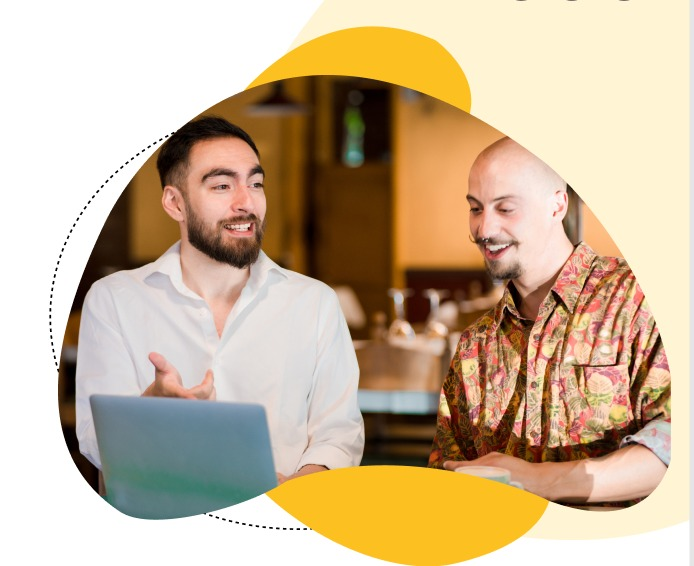
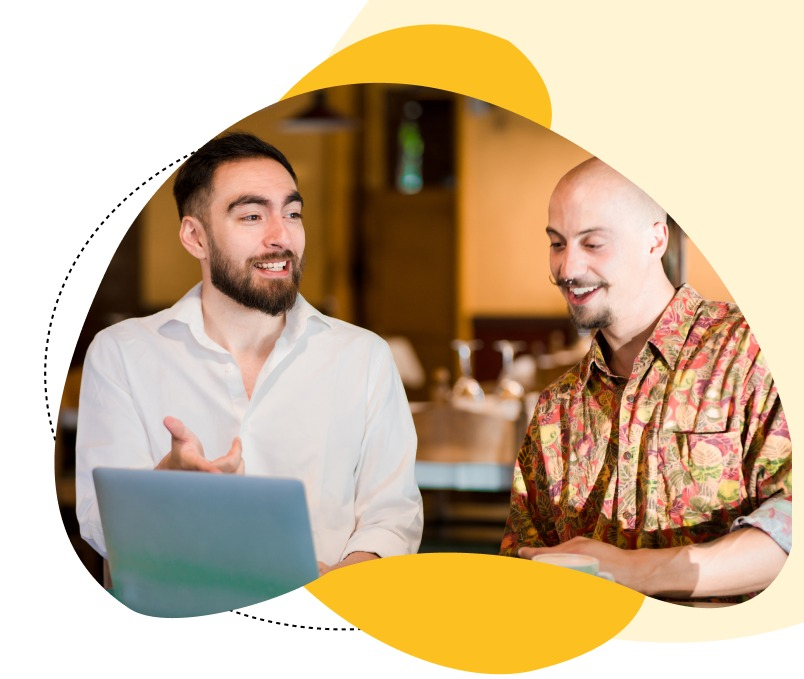
final Nosotros

Changed region(s): [[0.0303, 0.0, 1.0, 1.0], [0.6657, 0.9611, 0.7262, 0.9912]]

diff --git a/Parcial 1/index.html b/Parcial 1/index.html
@@ -38,8 +38,8 @@
                 <p>Lorem ipsum dolor sit amet consectetur adipisicing elit. Accusantium alias tempore modi perferendis,
                     hic debitis obcaecati harum aut, molestiae sint rerum eligendi nam voluptas quo saepe eum quis?
                     Quae, consectetur!</p>
-                <a class="button-inicio" href="">Get Started</a>
-                <img src="img/Imagen inicio.jpeg" alt="imagen-inicio">
+                <button>Get Started</button>
+                <img src="img/imagen inicio.jpeg" alt="imagen-inicio">
             </div>
         </section>
 
@@ -64,9 +64,6 @@
                         atque. Autem qui voluptatem rem repellat!
                     </p>
                 </div>
-                <div class="card-footer">
-                    <button>Leer Mas</button>
-                </div>
             </div>
 
             <div class="cards">
@@ -82,9 +79,6 @@
                         iusto! Sunt ex eos, fuga voluptatum voluptas deleniti facere dicta. Ducimus, voluptate
                         atque. Autem qui voluptatem rem repellat!
                     </p>
-                </div>
-                <div class="card-footer">
-                    <button>Leer Mas</button>
                 </div>
             </div>
 
@@ -102,11 +96,21 @@
                         atque. Autem qui voluptatem rem repellat!
                     </p>
                 </div>
-                <div class="card-footer">
-                    <button>Leer Mas</button>
-                </div>
             </div>
         </div>
+
+        <div class="container-nosotros">
+            <img src="img/imagen nosotros.jpeg" alt="">
+            <h2>
+                Acerca de <br> Nosotros
+            </h2>
+            <p>
+                Lorem ipsum dolor sit amet consectetur adipisicing elit. Aperiam, temporibus. Dolorum at quia ullam quasi velit suscipit vel mollitia nostrum facere beatae ducimus, nisi earum architecto nobis adipisci accusamus doloremque. <br> <br>
+                Lorem ipsum dolor sit amet consectetur adipisicing elit. Odio blanditiis magni, eos neque officia laudantium aspernatur eveniet, facere ex dolores at distinctio ab laboriosam quis illum? Sed recusandae voluptatibus fuga!
+            </p>
+            <button>Explore More</button>
+        </div>
+
     </main>
 </body>
 

diff --git a/Parcial 1/CSS/Style.css b/Parcial 1/CSS/Style.css
@@ -93,18 +93,23 @@
     grid-row: 1/4;
 }
 
-.button-inicio {
-    background: #331B3B;
+.container-inicio button{
     text-align: center;
-    letter-spacing: 3px;
-    width: 160px;
-    height: 60px;
+    width: 207px;
+    height: 66px;
+    left: 50px;
+    top: 634px;
     border: none;
+    border-radius: 20px;
+    background: #331B3B;
     color: white;
-    border-radius: 4px;
-    font-size: 20px;
-    outline: none;
-    text-decoration: none;
+    font-size: 17px;
+    grid-row: 3;
+    grid-column: 1;
+}
+
+.container-inicio button:hover{
+    cursor: pointer;
 }
 
 /* cards */
@@ -168,21 +173,58 @@
     align-items: center;
 }
 
-.card-footer button{
-    width: 150px;
-    background-color: black;
-    color: white;
-    border-radius: 15px;
-    border: 2px solid black;
-    padding: 6px;
-    font-size: 17px;
-    cursor: pointer;
-    margin-bottom: 10px;
-    transition: 0.2s;    
+/* nosotros */
+.container-nosotros{
+    display: grid;
+    grid-template-rows: repeat(3, 1fr); 
+    grid-template-columns: repeat(2, 1fr);
+    padding: 150px 10%;
 }
 
-.card-footer button:hover{
-    background-color: white;
-    color: black;
-    border: 2px solid black;
+.container-nosotros img{
+    grid-column: 1;
+    grid-row: 1/4;
 }
+
+.container-nosotros h2{
+    color: #331B3B;
+    font-family: 'Hind Vadodara';
+    font-style: normal;
+    font-weight: 700;
+    font-size: 48px;
+    line-height: 106.3%;
+    grid-column: 2;
+    grid-row: 1;
+}
+
+.container-nosotros p{
+    font-family: 'Hind Vadodara';
+    font-style: normal;
+    font-weight: 400;
+    font-size: 17px;
+    line-height: 146.3%;
+    grid-column: 2;
+    grid-row: 2;
+}
+
+.container-nosotros button{
+    text-align: center;
+    width: 207px;
+    height: 66px;
+    left: 50px;
+    top: 634px;
+    border: none;
+    border-radius: 20px;
+    background: #331B3B;
+    color: white;
+    font-size: 17px;
+    grid-column: 2;
+    grid-row: 3;
+}
+
+.container-nosotros button:hover{
+    cursor: pointer;
+}
+
+
+
